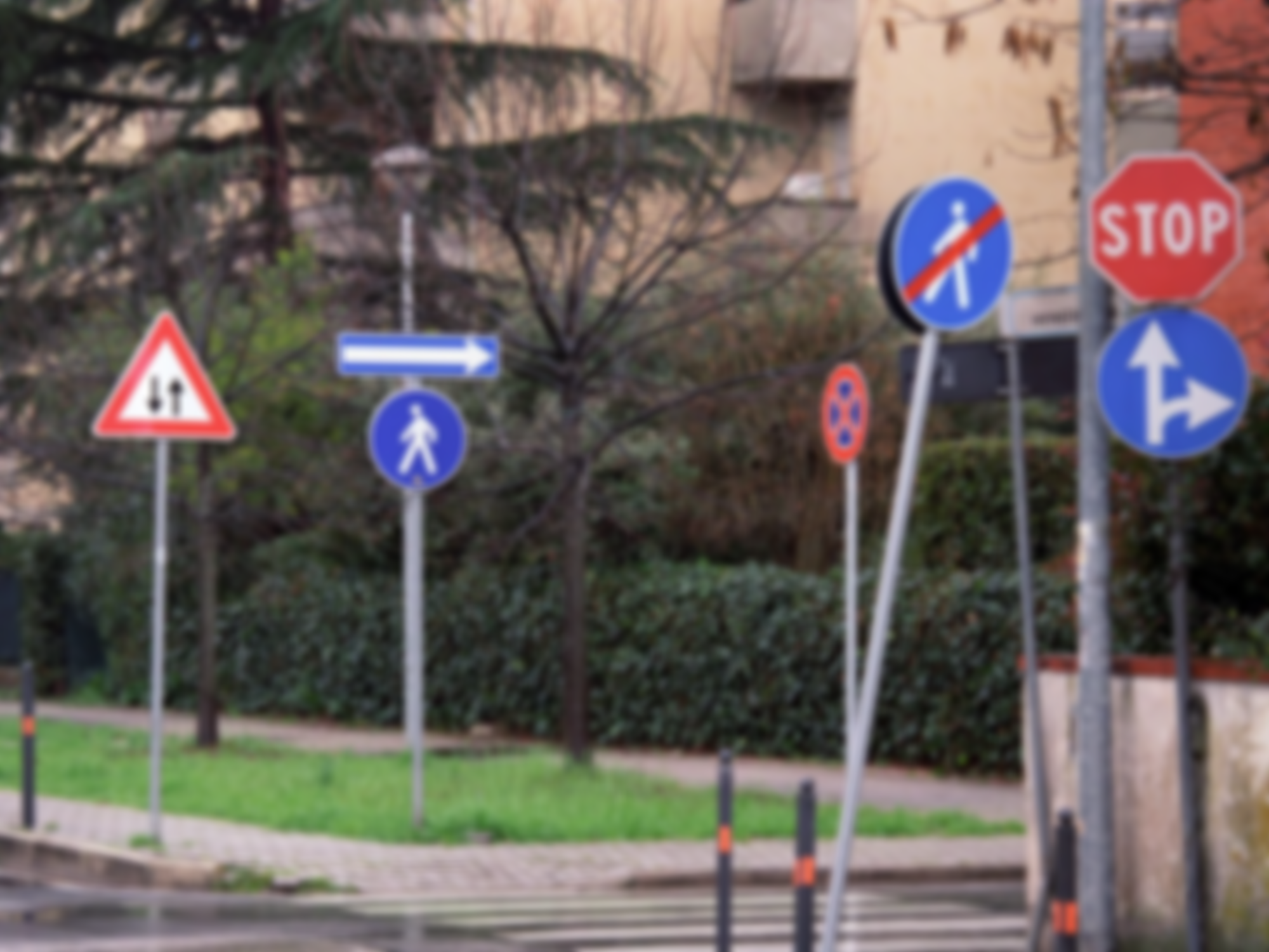
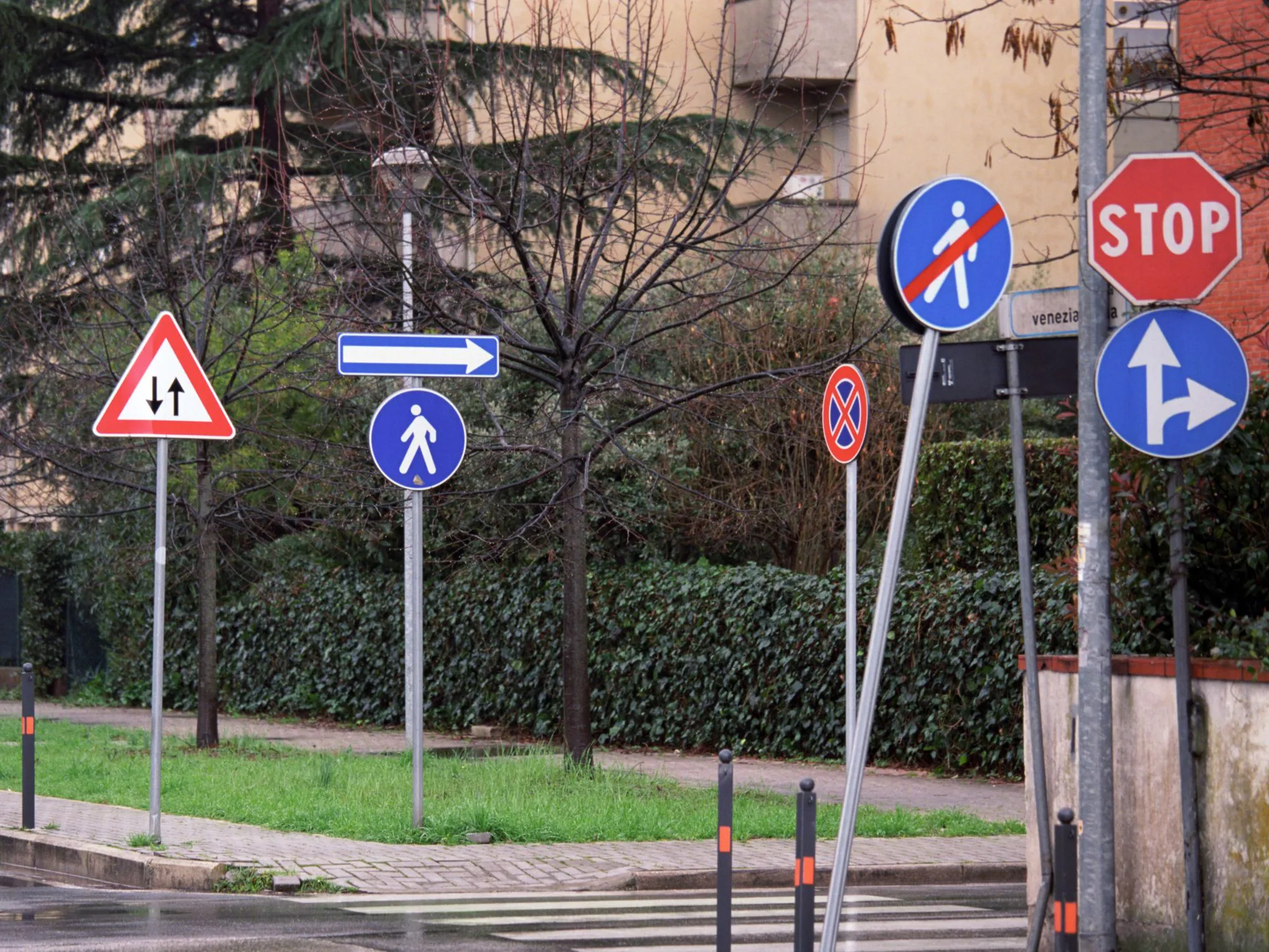
Immagini carosello sfocate, resto no
Ora solo le immagini del carosello risultato sfocate.

diff --git a/index.html b/index.html
@@ -132,7 +132,7 @@
       </div>
       <div class="carousel-inner">
         <div class="carousel-item active">
-          <img src="img/Homepage/cartelli.webp" class="d-block w-100" alt="Cartelli stradali" />
+          <img src="img/Homepage/cartelli_sfocato.webp" class="d-block w-100" alt="Cartelli stradali" />
           <div class="container">
             <div class="carousel-caption text-start light-theme">
               <h1>Cartelli stradali.</h1>
@@ -146,7 +146,7 @@
           </div>
         </div>
         <div class="carousel-item">
-          <img src="img/Homepage/sicurezza.png" class="d-block w-100" alt="Sicurezza stradale" />
+          <img src="img/Homepage/sicurezza_sfocato.png" class="d-block w-100" alt="Sicurezza stradale" />
           <div class="container">
             <div class="carousel-caption light-theme">
               <h1>Guida sicura</h1>
@@ -158,7 +158,7 @@
           </div>
         </div>
         <div class="carousel-item">
-          <img src="img/Homepage/pedoni.jpg" class="d-block w-100" alt="Pedoni" />
+          <img src="img/Homepage/pedoni_sfocato.jpg" class="d-block w-100" alt="Pedoni" />
           <div class="container">
             <div class="carousel-caption light-theme">
               <h1>Sicurezza pedoni</h1>
@@ -171,7 +171,7 @@
         </div>
 
         <div class="carousel-item">
-          <img src="img/Homepage/quiz.jpg" class="d-block w-100" alt="Quiz" />
+          <img src="img/Homepage/quiz_sfocato.jpg" class="d-block w-100" alt="Quiz" />
           <div class="container">
             <div class="carousel-caption text-end light-theme">
               <h1>Quiz interattivo</h1>
